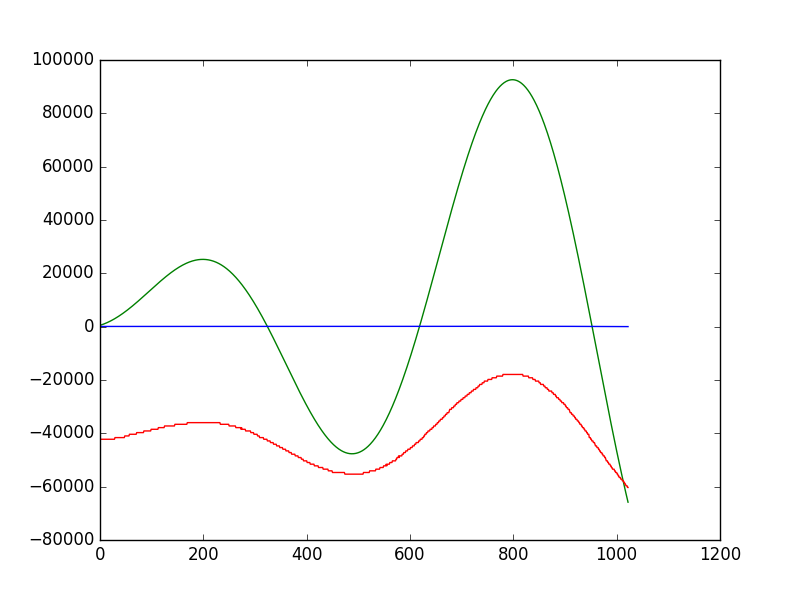
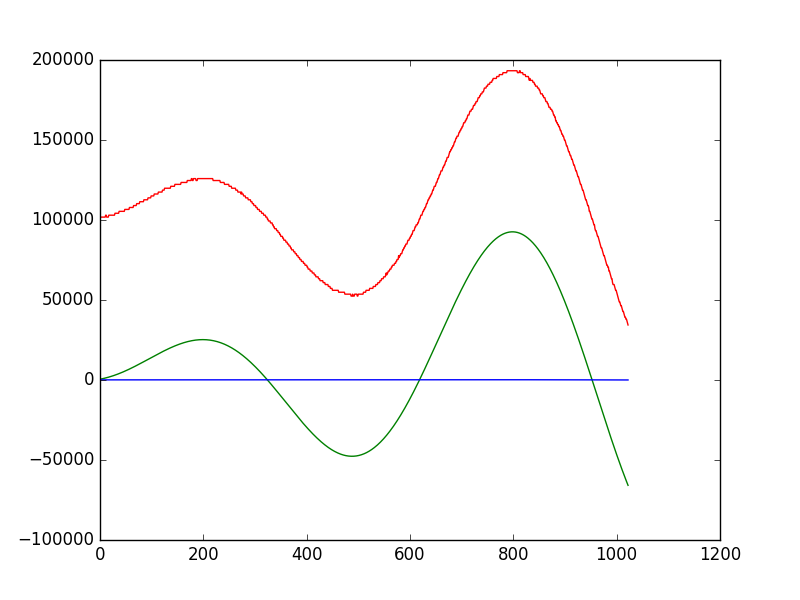
再度符号整理、全て正はＯＫ

diff --git a/python_ref/mul_test.py b/python_ref/mul_test.py
@@ -1,0 +1,48 @@
+import numpy as np
+import npu
+import matplotlib.pyplot as plt
+
+
+def save_img(fname, V, q_V, deq_V, n = 1):
+    x = np.arange(0, 1023)
+    plt.figure(n)
+    plt.plot(x, V, color="green")
+    plt.plot(x, q_V, color="b")
+    plt.plot(x, deq_V, color="r")
+    plt.savefig('img_test/'+fname)
+
+
+def do_test(p):
+    a_offset, b_offset, name, n = p
+    A = np.arange(0, 1023, 1.0) + a_offset
+    a_min = np.min(A)
+    a_max = np.max(A)
+    q_A = npu.Quantize(A, a_min, a_max)
+#    deq_A = npu.deQuantize(q_A, a_min, a_max)
+
+    B = np.arange(0, 1023, 1) / 2 + b_offset
+    b_min = np.min(B)
+    b_max = np.max(B)
+    q_B = npu.Quantize(B, b_min, b_max)
+ #   deq_B = npu.deQuantize(q_B, b_min, b_max)
+
+    print("A %f - %f" % (a_min, a_max))
+    print("B %f - %f" % (b_min, b_max))
+
+    # mul test
+    C = A * B
+    q_C, c_min, c_max = npu.q_mul(q_A, a_min, a_max, q_B, b_min, b_max)
+    deq_C = npu.deQuantize(q_C, c_min, c_max)
+
+    print("C %f - %f" % (np.min(C), np.max(C)))
+    print("q_C %f(%f) - %f(%f)" % (c_min, np.min(C) - c_min, c_max, np.max(C) - c_max))
+
+
+    save_img(name + '.png', C, q_C, deq_C, n=n)
+
+
+# test set
+test_set = [[50, 100, 'pp_pp', 1],]
+
+
+do_test(test_set[0])

diff --git a/python_ref/npu.py b/python_ref/npu.py
@@ -81,7 +81,9 @@ def q_mul(a_qt, a_min, a_max, b_qt, b_min, b_max):
     # 引き算なので符号反転
     #C_qt_1, C_qt_1_min, C_qt_1_max = q_inv(C_qt_0, C_qt_0_min, C_qt_0_max)
     #C_qt, c_min, c_max = q_add(AdBd_qt, AdBd_min, AdBd_max, C_qt_1, C_qt_1_min, C_qt_1_max)
+
     C_qt, c_min, c_max = q_add(AdBd_qt, AdBd_min, AdBd_max, C_qt_0, C_qt_0_min, C_qt_0_max)
+
 
     f1 = a_min * b_min
     f2 = a_max * b_max
@@ -90,10 +92,19 @@ def q_mul(a_qt, a_min, a_max, b_qt, b_min, b_max):
 
 #    c_min = -94622
 #    c_max = 211407
-    c_max = c_max + (a_max * b_min)
-    c_min = c_min + (a_max * b_min)
+#    c_max_f = c_max + (a_max * b_min)
+#    c_min_f = c_min + (a_max * b_min)
+    c_max_f = c_max - f1
+    c_min_f = c_min - f1
 
-    return C_qt.astype(np.int), c_min, c_max
+    if True:
+        print("A_bmin:%f - %f" % (A_bmin_min, A_bmin_max))
+        print("B_amin:%f - %f" % (B_amin_min, B_amin_max))
+        print("C_qt_0:%f - %f" % (C_qt_0_min, C_qt_0_max))
+        print("C_qt:%f - %f" % (c_min, c_max))
+        print(f1 ,f2, f3, f4)
+
+    return C_qt.astype(np.int), c_min_f, c_max_f
 
 
 def q_mul_core(a_qt, a_min, a_max, b_qt, b_min, b_max):

diff --git a/python_ref/q_mul.py b/python_ref/q_mul.py
@@ -43,11 +43,17 @@ q_C, c_min, c_max = npu.q_mul(q_A, a_min, a_max, q_B, b_min, b_max)
 deq_C = npu.deQuantize(q_C, c_min, c_max)
 save_img('mul.png', C, q_C, deq_C, n=2)
 
+"""
+q_C, c_min, c_max = npu.q_mul(q_B, b_min, b_max, q_A, a_min, a_max)
+deq_C = npu.deQuantize(q_C, c_min, c_max)
+save_img('mul2.png', C, q_C, deq_C, n=3)
+"""
+
 # deQuantize
-q_c_min = np.min(q_C)
-q_c_max = np.max(q_C)
-c_min2 = npu.deQuantize_scalar(q_c_min, c_min, c_max)
-c_max2 = npu.deQuantize_scalar(q_c_max, c_min, c_max)
-req_C2 = npu.reQuantize(q_C, c_min, c_max, c_min2, c_max2)
-deq_C2 = npu.deQuantize(req_C2, c_min2, c_max2)
-save_img('mul2.png', C, q_C, deq_C2, n=3)
+#q_c_min = np.min(q_C)
+#q_c_max = np.max(q_C)
+#c_min2 = npu.deQuantize_scalar(q_c_min, c_min, c_max)
+#c_max2 = npu.deQuantize_scalar(q_c_max, c_min, c_max)
+#req_C2 = npu.reQuantize(q_C, c_min, c_max, c_min2, c_max2)
+#deq_C2 = npu.deQuantize(req_C2, c_min2, c_max2)
+#save_img('mul2.png', C, q_C, deq_C2, n=3)
